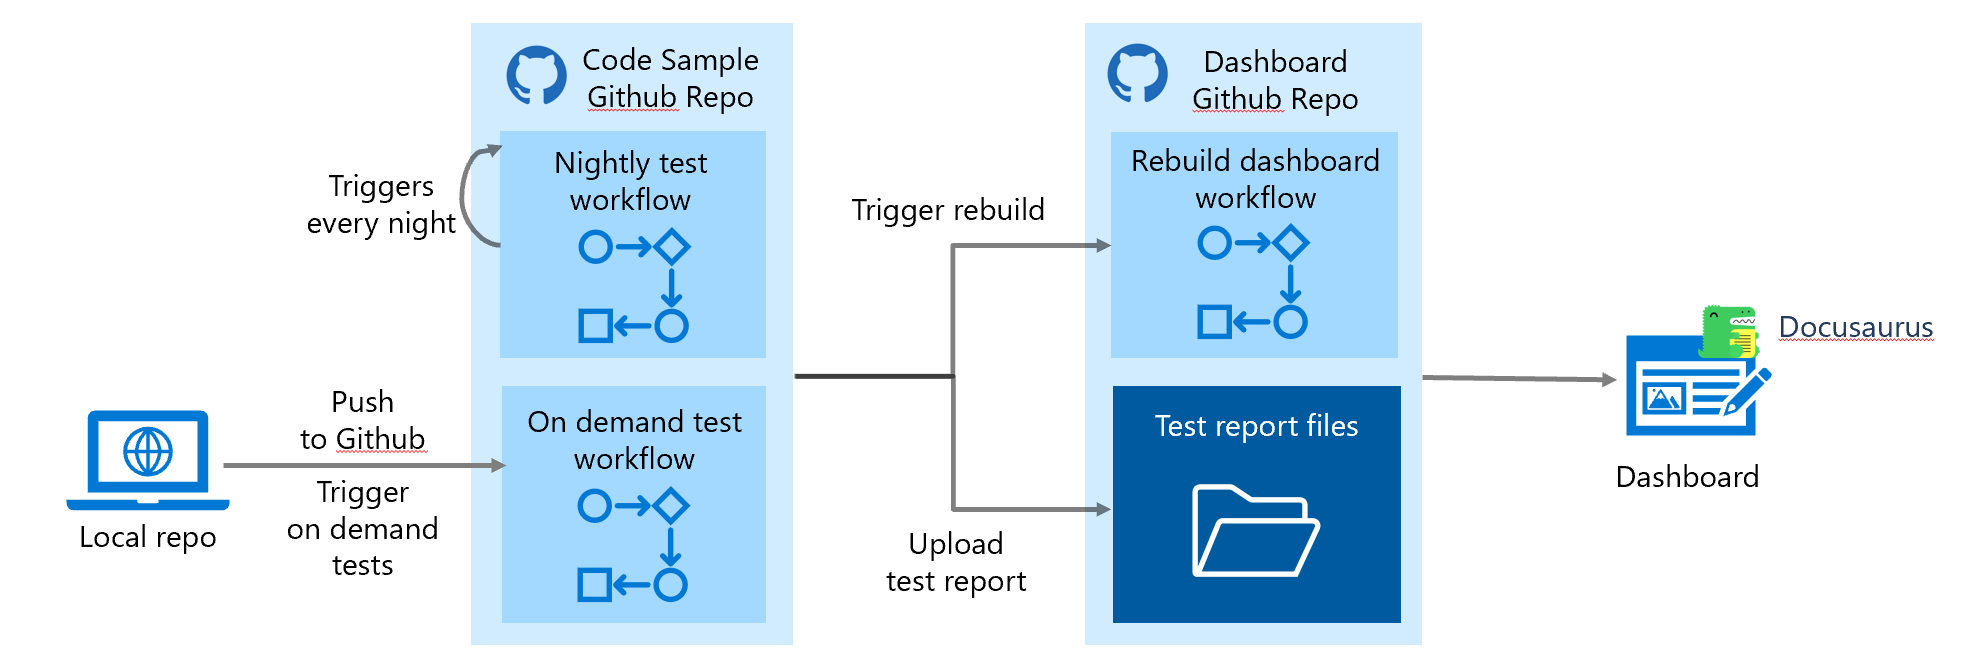
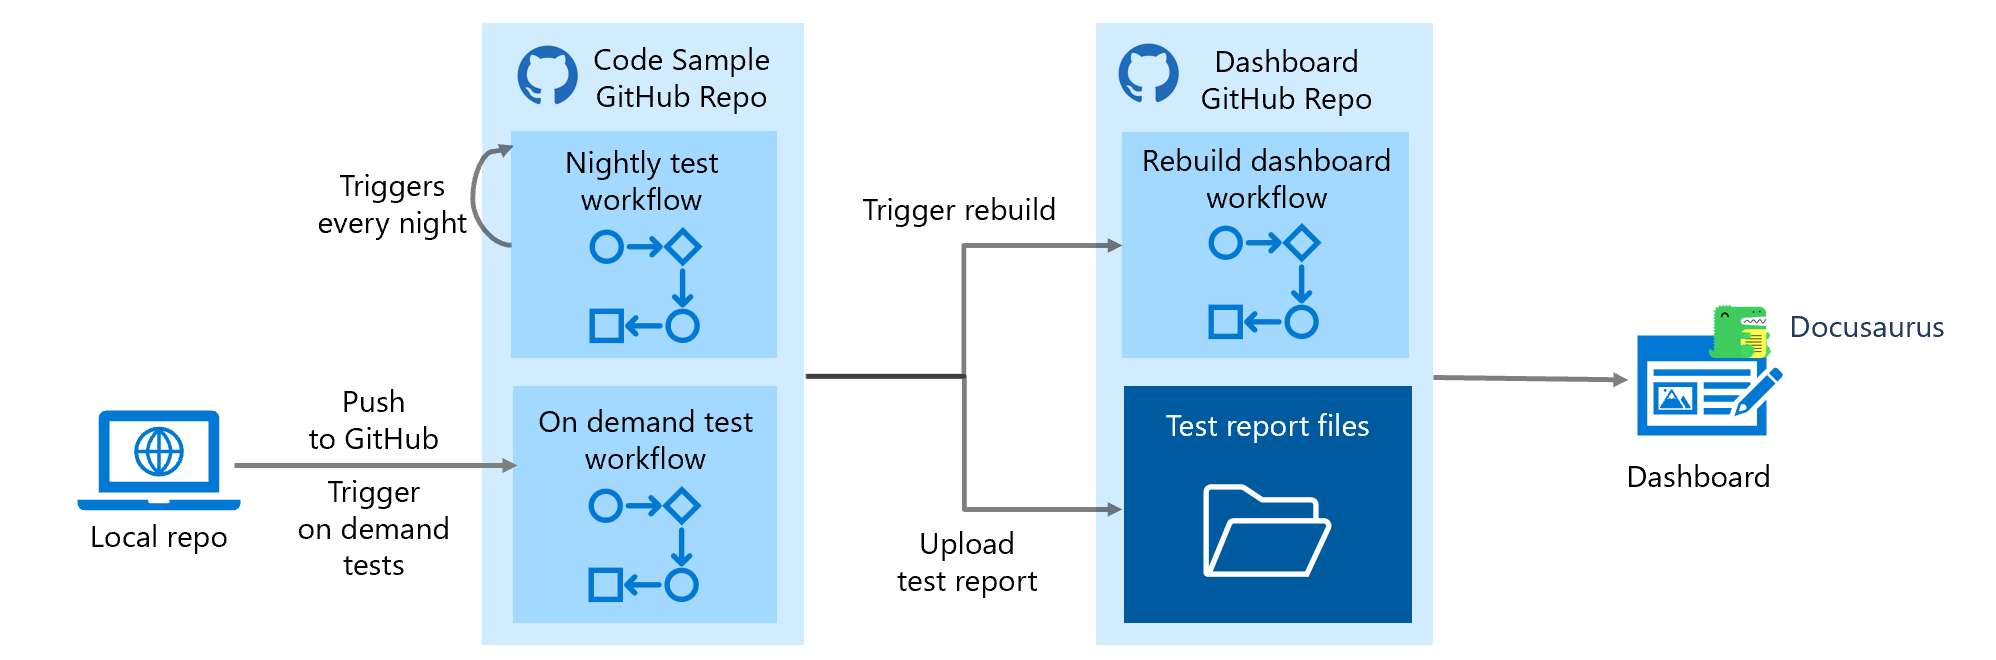
added intro documentation

diff --git a/src/components/HomePage.jsx b/src/components/HomePage.jsx
@@ -10,18 +10,20 @@ export function HomePage() {
   //list of repos to display
   const [repos, setRepos] = useState([]);
   
-  useEffect(() => {
-    async function fetchRepos() {
-      try {
-        //the following lines automatically get all repos in the org and filter for ones with a test harness
-        const asyncResponse = await getRepos(config.organization);
-        if([...asyncResponse] != [...repos]){
-          setRepos(asyncResponse);
-        }
-      } catch (err) {
-        console.error(err);
+  async function fetchRepos() {
+    try {
+      //the following lines automatically get all repos in the org and filter for ones with a test harness
+      const asyncResponse = await getRepos(config.organization);
+      if([...asyncResponse] != [...repos]){
+        setRepos(asyncResponse);
       }
+    } catch (err) {
+      console.error(err);
     }
+  }
+  
+  useEffect(() => {
+    
     // comment fetchRepos() and uncomment the following lines if you want to list the repos that should be on the dashboard
     // if([...repos] !=['vanilla-basic', 'vanilla-api', 'nextjs-starter', 'nuxtjs-starter', 'angular-basic', 'react-basic', 'vue-basic', 'blazor-starter', 'blazor-basic', 'roles-function', '30DaysOfSWA' ] ){
     //   setRepos(['vanilla-basic', 'vanilla-api', 'nextjs-starter', 'nuxtjs-starter', 'angular-basic', 'react-basic', 'vue-basic', 'blazor-starter', 'blazor-basic', 'roles-function', '30DaysOfSWA' ])
@@ -30,7 +32,7 @@ export function HomePage() {
     fetchRepos();
   }, []);
 
-  
+
   return (
     <div >
         <Title/>

diff --git a/docs/intro.md b/docs/intro.md
@@ -4,19 +4,21 @@ sidebar_position: 1
 
 # Project Intro
 
-This project is composed of nightly tests and a dashboard that consolidates all test results in one location for an easy way to ensure that all code samples can compile and run.
+Documentation and the code samples that are apart of them play an important role in a developer's experience. Code samples are the starting point for many developers and it's critical that they work in order for developers to gain a deeper understanding of the documentation as well as the technology itself.
 
-## The problem at hand 
+## The Problem
 
-Documentation with faulty code samples drives developers away from our platform. This project adds nightly integration tests to each repository referenced in documentation. Then we can easily fix automatically identified failures and not spend time manually testing repositories.
-
-## The solution
-
-![Project home page](./img/home-page.png)
-
-## Impact
+With the thousands of code samples that are apart of our docs it's infeasible to manually ensure they all work. Code samples may break from modifications to the sample code, dependency updates, etc. We currently have a reactive solution, relying on our users to file Github issues in order to report that a code sample is broken. However, a portion of developers won't report the issue and instead choose to silently swap to another point of reference.
 
 ## Goals
+
+This project aims to improve the quality of our code samples by running automated nightly integration tests on each repository referenced in documentation and then consolidating and presenting test results of all repositories on a dashboard. The goal was to take a proactive approach to ensuring all code samples work without wasting time manually testing each one.
+
+## The Solution
+
+The solution was to create a network of repositories each consisting of their own test harness and one overarching dashboard to report test results of each repository. As seen below, the dashboard consists of one pane per repository and each pane displays the results of latest test run on the left and a weekly summary of test reports on the right.
+
+![Project home page](./img/home-page.png)
 
 ## Demo
 
@@ -24,4 +26,12 @@ Documentation with faulty code samples drives developers away from our platform.
 
 ## Behind the Scenes
 
-*place flow chart here
+The project consists of multiple repositories with test harnesses, Github workflows to run the tests nightly or after changes to the main branch, and a dashboard to display test results.
+
+Every night the scheduled workflow triggers and when new changes are made to the main branch of each repository, the on demand workflow is triggered. These workflows run the repository's Playwright tests and upload the test reports to the `gh-pages` branch of the dashboard. The dashboard is then triggered to rebuild and show the latest test results.
+
+![System architecture](./img/system-architecture.png)
+
+## Try it Yourself
+
+To set up this project on your own repositories, follow the step by step instructions provided in `Repository Integration`, `Dashboard Setup`, and `Setup Multiple Workflows for Different Testing Purposes`.

diff --git a/README.md b/README.md
@@ -1,41 +1,16 @@
 # Nightly Builds 2022 Summer Intern Project
 
-This website is built using [Docusaurus 2](https://docusaurus.io/), a modern static website generator.
+Documentation and the code samples that are apart of them play an important role in a developer's experience. Code samples are the starting point for many developers and it's critical that they work in order for developers to gain a deeper understanding of the documentation as well as the technology itself.
 
-### Installation
-
-```
-$ yarn
-```
+This project aims to improve the quality of our code samples by running automated nightly integration tests on each repository referenced in documentation and then consolidating and presenting test results of all repositories on a dashboard. The goal was to take a proactive approach to ensuring all code samples work without wasting time manually testing each one.
 
 ### Local Development
 
-```
-$ yarn start
-```
+To spin up a local copy of the dashboard clone the repository and type the following commands:
 
-This command starts a local development server and opens up a browser window. Most changes are reflected live without having to restart the server.
-
-### Build
-
-```
-$ yarn build
+```cmd
+npm install
+npm start
 ```
 
-This command generates static content into the `build` directory and can be served using any static contents hosting service.
-
-### Deployment
-
-Using SSH:
-
-```
-$ USE_SSH=true yarn deploy
-```
-
-Not using SSH:
-
-```
-$ GIT_USER=<Your GitHub username> yarn deploy
-```
-
-If you are using GitHub pages for hosting, this command is a convenient way to build the website and push to the `gh-pages` branch.
+For more detailed instructions on how to set up the test harness and dashboard please see [Nightly Integration Tests Dashboard Documentation](https://mspnp.github.io/intern-js-pipeline/docs/intro)
